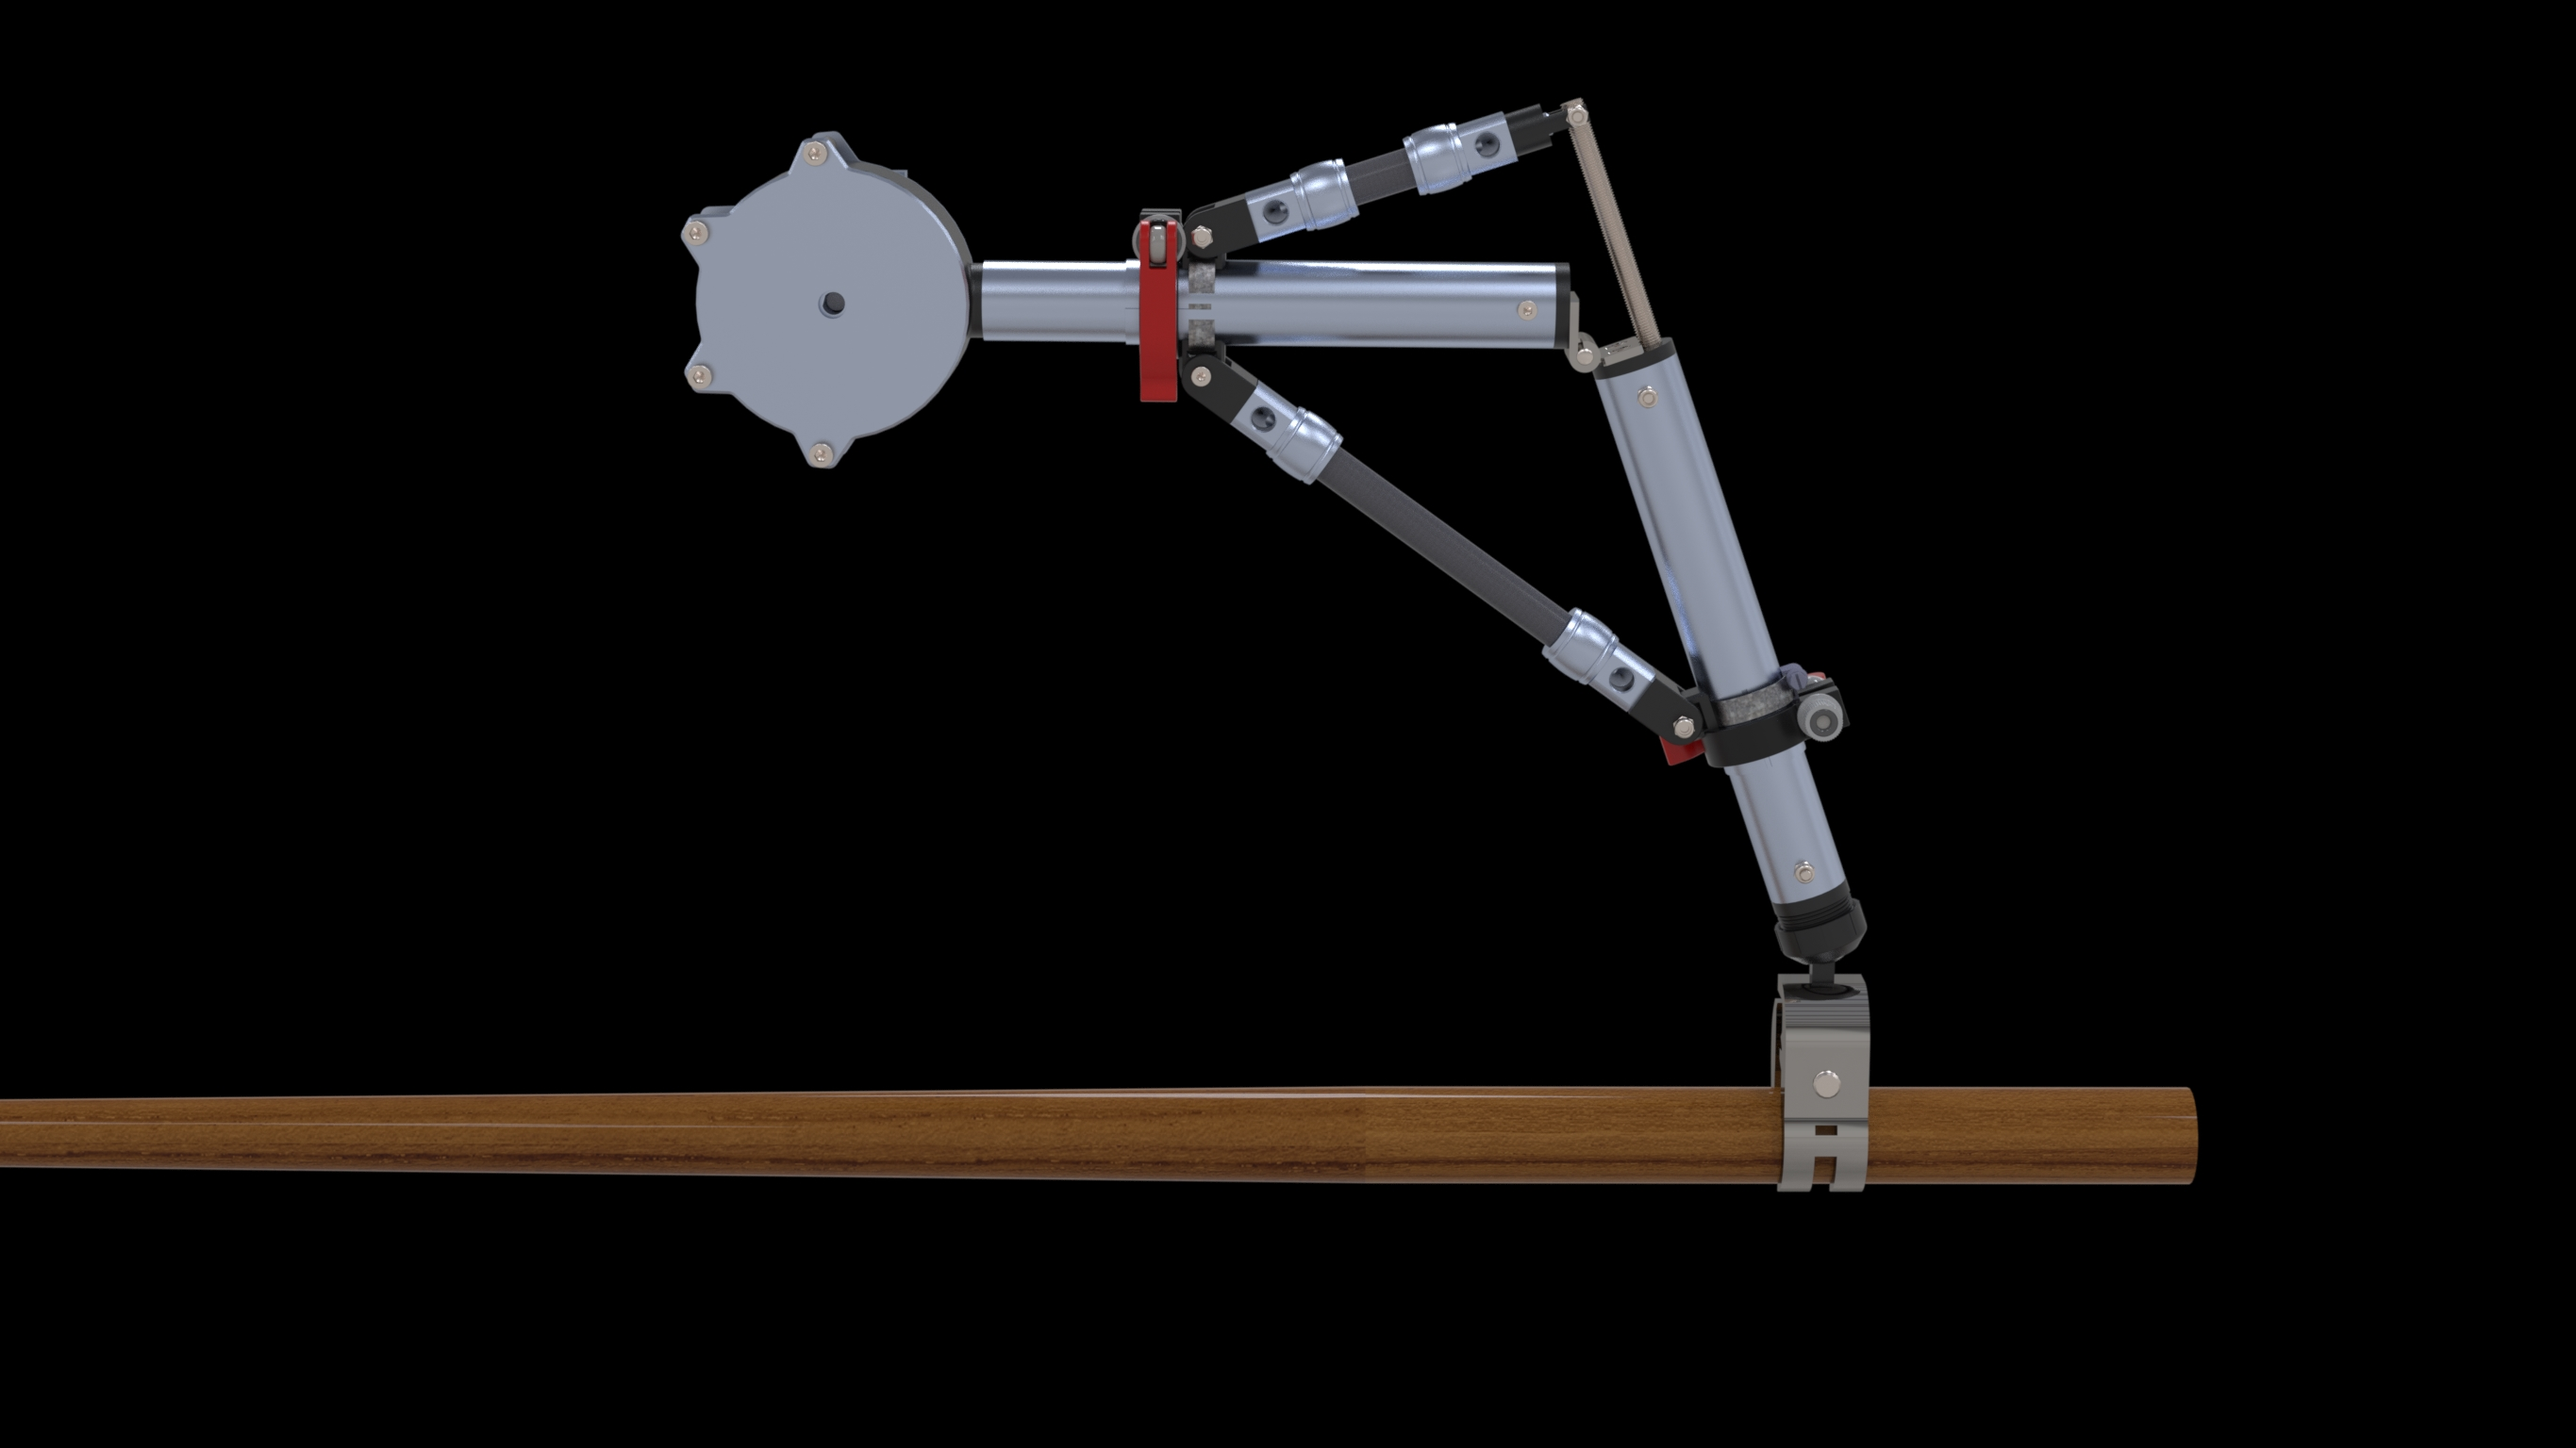
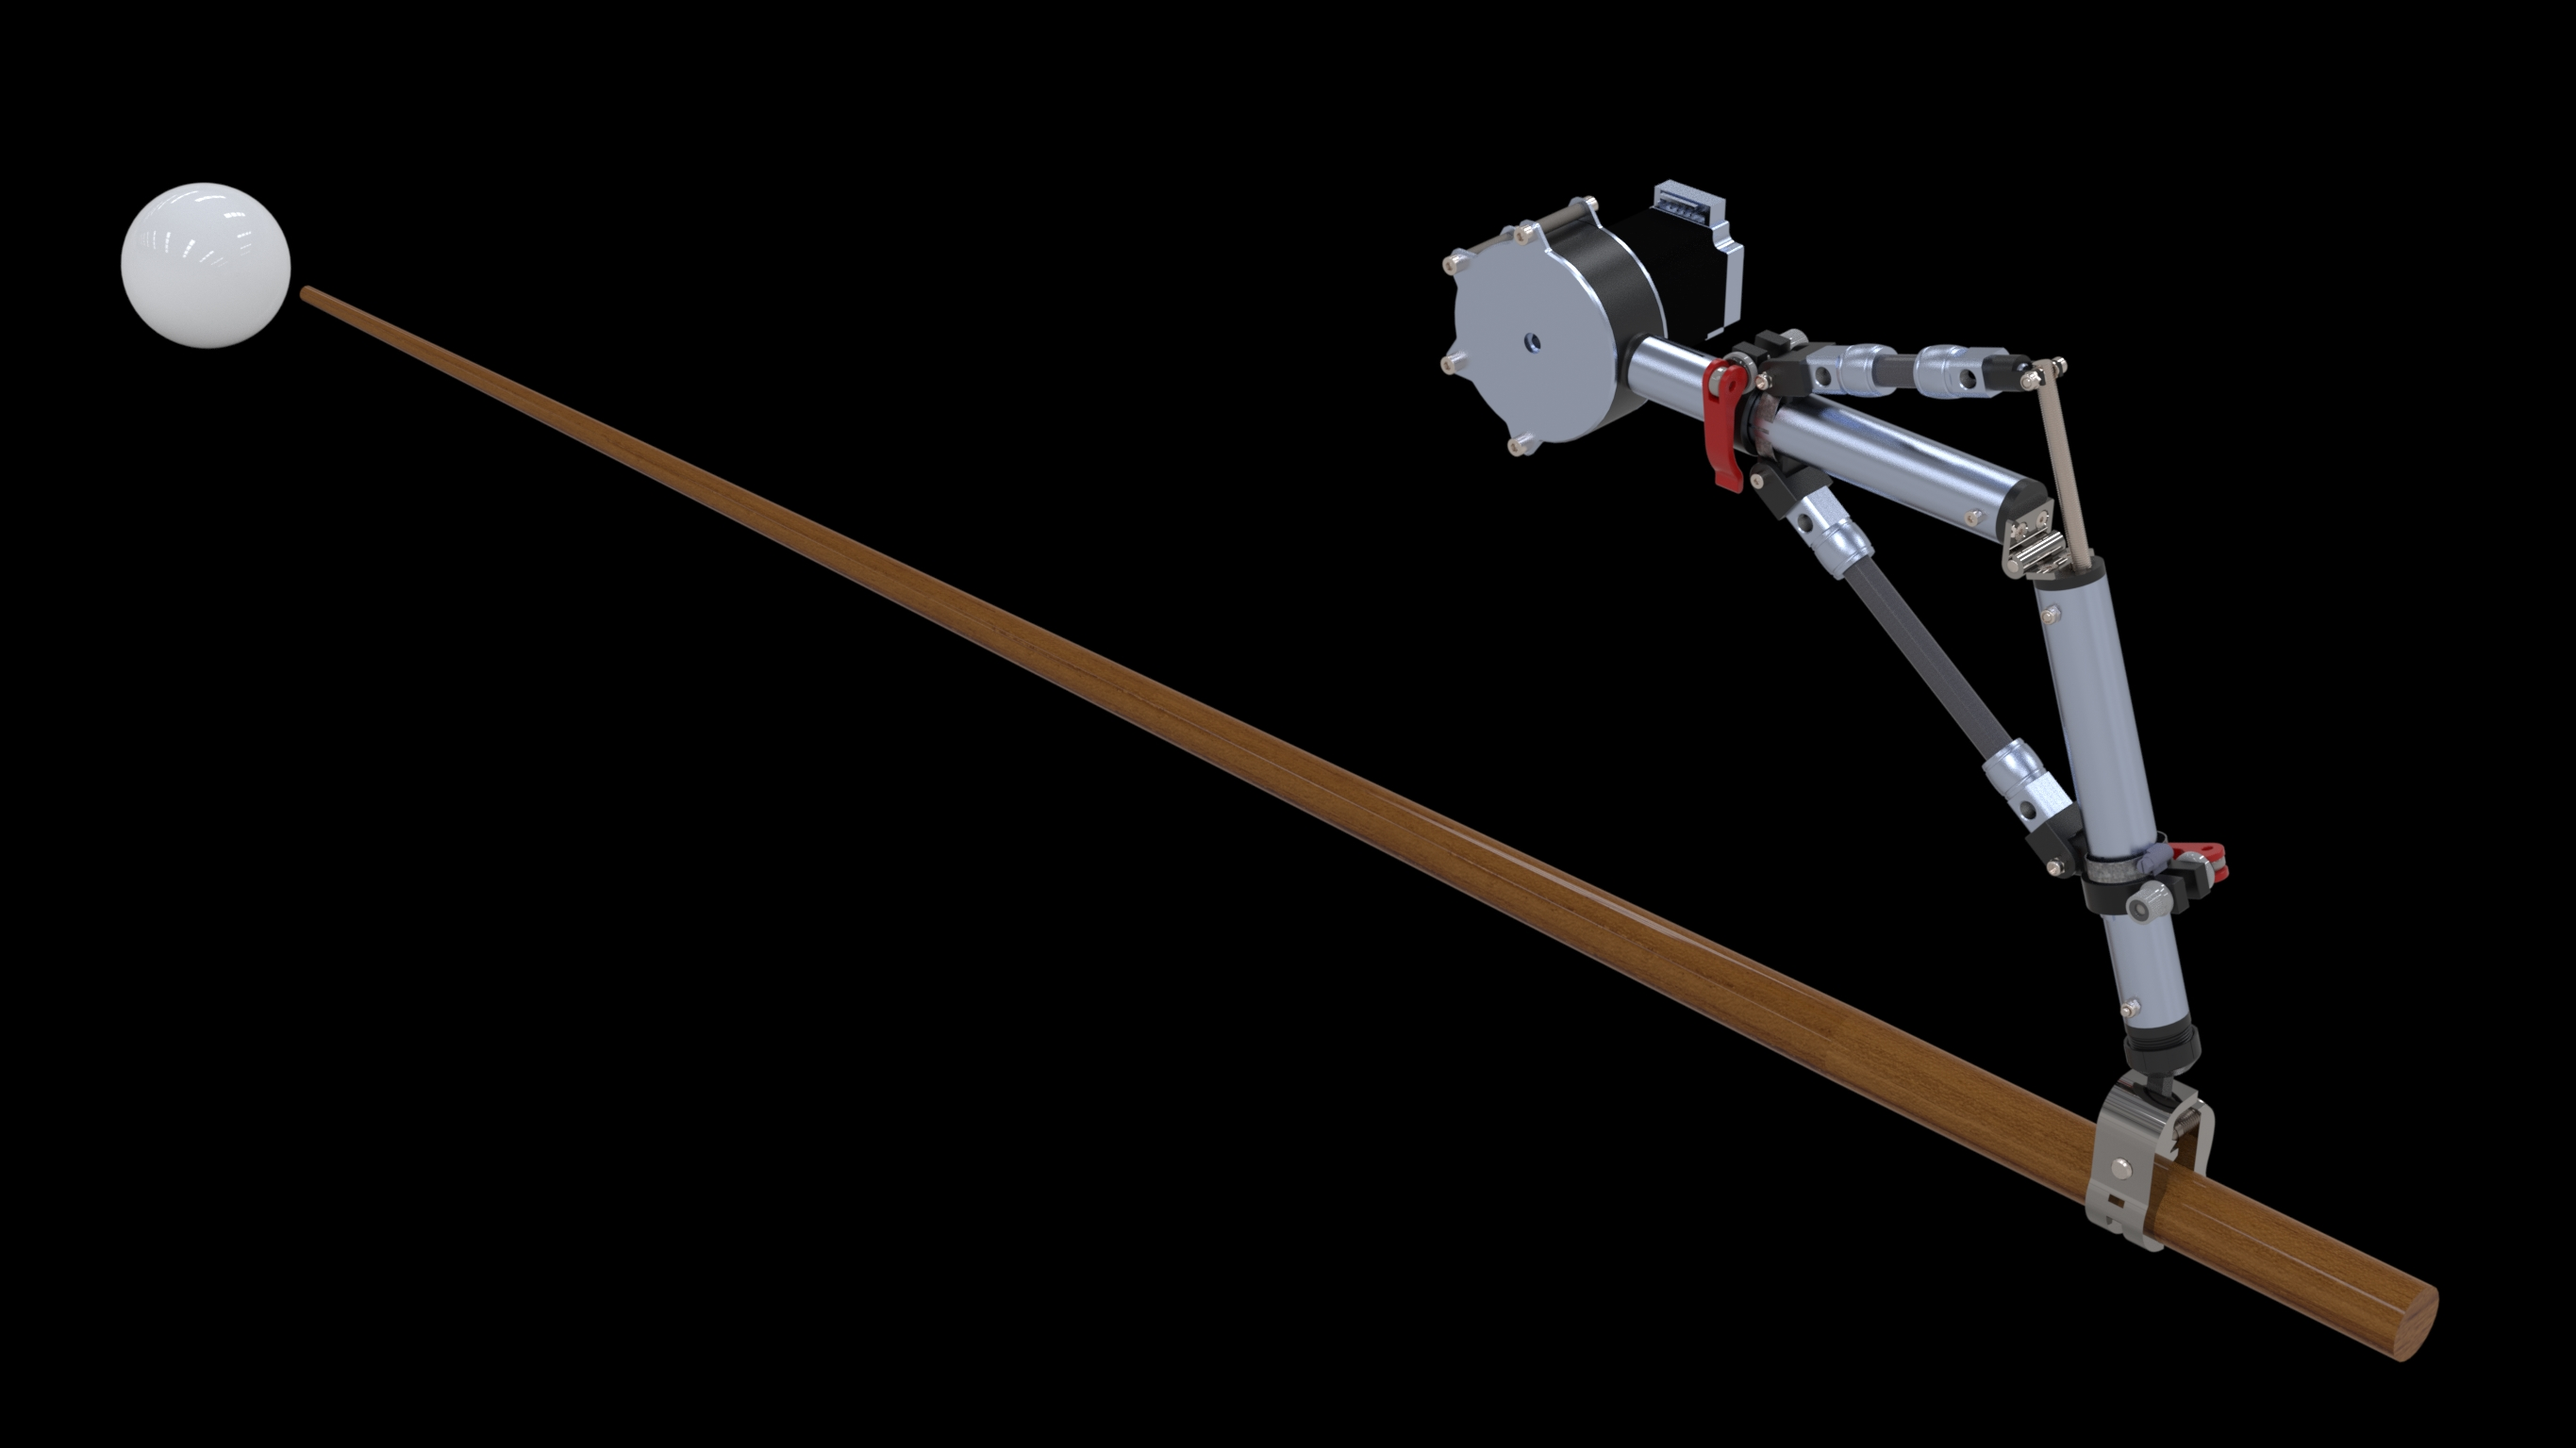
eye candy

Changed region(s): [[0.0, 0.0625, 0.9648, 0.9375]]

diff --git a/chapters/6_Ergebnisse.tex b/chapters/6_Ergebnisse.tex
@@ -1,20 +1,23 @@
 % Dieses Kapitel bildet zusammen mit dem folgenden Kapitel Diskussion den Hauptteil der Arbeit. In übersichtlicher Gliederung und sinnvoller Reihenfolge wird dargestellt, was mittels der eingesetzten Methodik im Hinblick auf die Zielsetzung herausgefunden werden konnte. Die Strukturierung des Kapitels orientiert sich an der Theorie und Methodik. Mit Hilfe von Grafiken und Diagrammen (siehe 2.8.4) werden die Ergebnisse wertfrei dargestellt. Eine Interpretation erfolgt an dieser Stelle noch nicht.
 \chapter{Ergebnisse}
-	Das auf Basis der vorangegangenen Überlegungen entwickelte Gerät soll in den folgenden Kapiteln anhand technischer Zeichnungen näher erläutert werden.
+	Das auf Basis der vorangegangenen Überlegungen entwickelte Gerät soll im folgenden anhand gerenderter Darstellungen näher erläutert werden.
 	Eine vollständige technische Dokumentation ist in \cref{sec:zeichnungen} zu finden.
-	\section{Konzeption und Entwurf}
-		Nun werden die zur Konstruktion konzipierten Bauteile allesamt mit Zeichnungen präsentiert und kommentiert.
-		Dabei wird unter anderem sowohl auf das Prozedere der Konstruktion als auch auf die aufgetauchten Probleme und die Vorgehensweise zur Lösung jener eingegangen.\par
-		Die technischen Zeichnungen zu den Bauteilen sind jeweils in \cref{sec:zeichnungen} angehängt.
-		Die Übersichtszeichnungen sind meist explosionsartige Darstellungsformen und enthalten Nummerierungen, die dann jeweils in der darauffolgenden Stückliste manifestiert sind.
+	Dabei wird unter anderem sowohl auf das Prozedere der Konstruktion als auch nochmals in Kürze auf die Probleme und die Vorgehensweise zur Lösung jener eingegangen.
+	Die Übersichtszeichnungen sind meist explosionsartige Darstellungsformen und enthalten Nummerierungen, die in der jeweils darauffolgenden Stückliste festgehalten sind.
 		
-	\section{Gesamtbauteil}
+	\section{Gesamtkonstruktion}
 		Wie vorhin bereits erwähnt, sind die Zeichnungen des Gesamtbauteils im \cref{sec:bauteilzeichnungen} angehängt.
 		Diese zeigen das fertige Konstrukt als Ganzes und als Bauteilexplosionszeichnung.
-		Die Maße und Dimensionierungen der Einzelteile sind den Zeichnungen der jeweils zugehörigen Unterkapiteln zu entnehmen.\\
+		Die Maße und Dimensionierungen der Einzelteile sind den Zeichnungen der jeweils zugehörigen Unterkapiteln zu entnehmen.
 		Allgemein ist zu sagen, dass die Bauteile so konstruiert werden mussten, dass sie einander angepasst sind.
 		Dabei spielen die Verbindungen zwischen den einzelnen Gliedern eine entscheidende Rolle.
 		Das Gesamtbauteil besteht aus Schulter, Oberarm, Muskeln (Bizeps/Trizeps), Ellbogen, Unterarm und Hand.
+		\begin{figure}[h]
+			\centering
+			\includegraphics[width=\textwidth]{Abb/CAD/Renderings/master_render.jpg}
+			\caption[Gerenderte Gesamtdarstellung des entwickelten Gerätes]{Gerenderte Gesamtdarstellung des entwickelten Gerätes.}%
+			\label{fig:rendering total}
+		\end{figure}
 	
 	\section{Schulter}
 		Die Schulter hat die Aufgabe sowohl den gesamten Arm am Dummy zu befestigen als auch die Bewegung des Arms zu initialisieren.
@@ -23,6 +26,12 @@
 		Diese Konstruktion bietet den Vorteil, dass durch eine von außen einwirkende Kraft auf den Arm, zum Beispiel beim Stoßen der Kugel, der Arm nicht am Schultergelenk bewegt wird.
 		Außerdem lassen sich dadurch schnelle Bewegungen des Motors in kleine definierte Winkeländerungen des Oberarms übersetzen.
 		Ein weiterer Vorteil besteht darin, dass sich die Achse der Motorwelle und die Achse des Ausgangs auf einer gemeinsamen Rotationsachse befinden.
+		\begin{figure}[h]
+			\centering
+			\includegraphics[width=\textwidth]{Abb/CAD/Renderings/Effektor.jpg}
+			\caption[Gerenderte Darstellung des Schultergelenkes]{Gerenderte Darstellung des Schultergelenkes mit dem Motor im Vordergrund.}%
+			\label{fig:rendering effektor}
+		\end{figure}
 
 	
 	\section{Ellbogen}
@@ -30,6 +39,12 @@
 		Das Ellbogengelenk ist mit gekauften und gedruckten Teilen erstellt.
 		Dabei werden alle Teile, die käuflich erworben werden können, auch zugekauft.
 		Dies spart kosten bei der Konstruktion und hält den Konstruktionsaufwand geringer.
+		\begin{figure}[h]
+			\centering
+			\includegraphics[width=\textwidth]{Abb/CAD/Renderings/ellbogen.jpg}
+			\caption[Gerenderte Darstellung des Ellbogengelenks]{Gerenderte Darstellung des Ellbogengelenks.}%
+			\label{fig:rendering ellbogen}
+		\end{figure}
 	
 	\section{Ober-/Unterarm}
 		Die Konstruktion des Ober- und Unterarms wurde zunächst an den Prinzipskizzen orientiert erstellt.
@@ -42,21 +57,49 @@
 		Dabei liegt auch der Vorteil, dass nicht alle Bauteile eigenständig konstruiert werden müssen.
 		So lassen sich zum Beispiel die Klemmen, die die Rohrteile miteinander verbinden, als gewöhnliche Fahrradklemmen ausführen.
 		Auch die Anschlüsse der künstlichen Muskeln können als 3D-gedruckte Teile ausgearbeitet werden und mit einer einfachen Rohrschelle an die Arme befestigt werden.
-		Spezielle Teile wie die Einsätze der Rohre wurden eigenständig konstruiert.\\
+		Spezielle Teile wie die Einsätze der Rohre wurden eigenständig konstruiert.
+
+		\begin{figure}[h]
+			\centering
+			\includegraphics[width=\textwidth]{Abb/CAD/Renderings/oberarm-unterarm.jpg}
+			\caption[Gerenderte Darstellung des Ober- und Unterarms]{Gerenderte Darstellung des Ober- und Unterarms. Hier nicht zu sehen die Hand, Bizeps, Trizeps und Schulter.}%
+			\label{fig:rendering hand}
+		\end{figure}
 
 	\section{Hand}
 		Das Handgelenk sowie die Hand bestehen im Wesentlichen aus gekauften Teilen.
 		Dabei wird das Handgelenk so ausgelegt, dass es sowohl mit einer Klemme mit einer Kugelform als Anschluss ausgestattet werden kann als auch mit einer Schraube der Größe M5 befestigt werden kann.
 		Dabei ist lediglich zu beachten, dass die Kugelform mit einem Durchmesser von 28 mm ausgeführt ist.
 		Die Klemme bzw. Hand sollte des Weiteren breit genug ausgearbeitet sein, um dem Queue auch eine entsprechende seitliche und vertikale Stabilisation zu ermöglichen.
+
+		\begin{figure}[h]
+			\centering
+			\includegraphics[width=\textwidth]{Abb/CAD/Renderings/hand.jpg}
+			\caption[Gerenderte Darstellung der Hand]{Gerenderte Darstellung der Hand.}%
+			\label{fig:rendering hand}
+		\end{figure}
 	
 	\section{Künstliche Muskeln}
-		Die künstlichen Muskeln, die den Bizeps und Trizeps abbilden, sind Kernkomponenten der Konstruktion. 
-		Insbesondere der Bizeps ist für die Aufwendung der Kraft für einen Stoß verantwortlich. 
+		Die künstlichen Muskeln, die den Bizeps und Trizeps abbilden, sind Kernkomponenten der Konstruktion.
+		Insbesondere der Bizeps ist für die Aufwendung der Kraft für einen Stoß verantwortlich.
 		Der Trizeps dient hingegen zum Ausholen des Arms.
 		Damit bilden diese beiden Muskeln die meiste Bewegung des Armes ab.
-		Sie sind als künstliche Muskeln ausgelegt, da sie die Muskeln des menschlichen Körpers am besten nachbilden. 
-		Außerdem sind sie für Anwendungen dieser Art der aktuelle Stand der Technik. 
-		Die bieten gegenüber klassischen Pneumatikzylindern die Vorteile, dass sie geringe nicht axiale Bewegungen zulassen können. 
-		Außerdem sind sie gegenüber Staub, Schmutz und Flüssigkeiten unempfindlicher sind. 
-		Des Weiteren bieten sie bei vergleichsweise geringerer Masse eine gleiche oder sogar höhere Kraft.  
+		Sie sind als künstliche Muskeln ausgelegt, da sie die Muskeln des menschlichen Körpers am besten nachbilden.
+		Außerdem sind sie für Anwendungen dieser Art der aktuelle Stand der Technik.
+		Die bieten gegenüber klassischen Pneumatikzylindern die Vorteile, dass sie geringe nicht axiale Bewegungen zulassen können.
+		Außerdem sind sie gegenüber Staub, Schmutz und Flüssigkeiten unempfindlicher sind.
+		Des Weiteren bieten sie bei vergleichsweise geringerer Masse eine gleiche oder sogar höhere Kraft.
+
+		\begin{figure}[h]
+			\centering
+			\includegraphics[width=\textwidth]{Abb/CAD/Renderings/sehnen_und_schelle.jpg}
+			\caption[Gerenderte Darstellung der Sehnen und Sattelklemme]{Gerenderte Darstellung der Sehnen am Oberarm und der Klemme zur Fixierung der beiden Rohre.}%
+			\label{fig:rendering sehnen und schellen}
+		\end{figure}
+
+		\begin{figure}[h]
+			\centering
+			\includegraphics[width=\textwidth]{Abb/CAD/Renderings/bizeps.jpg}
+			\caption[Nahaufnahme des Bizeps bildenden pneumatischen Aktuators]{Nahaufnahme des Bizeps bildenden pneumatischen Aktuators.}%
+			\label{fig:rendering bizeps}
+		\end{figure}
